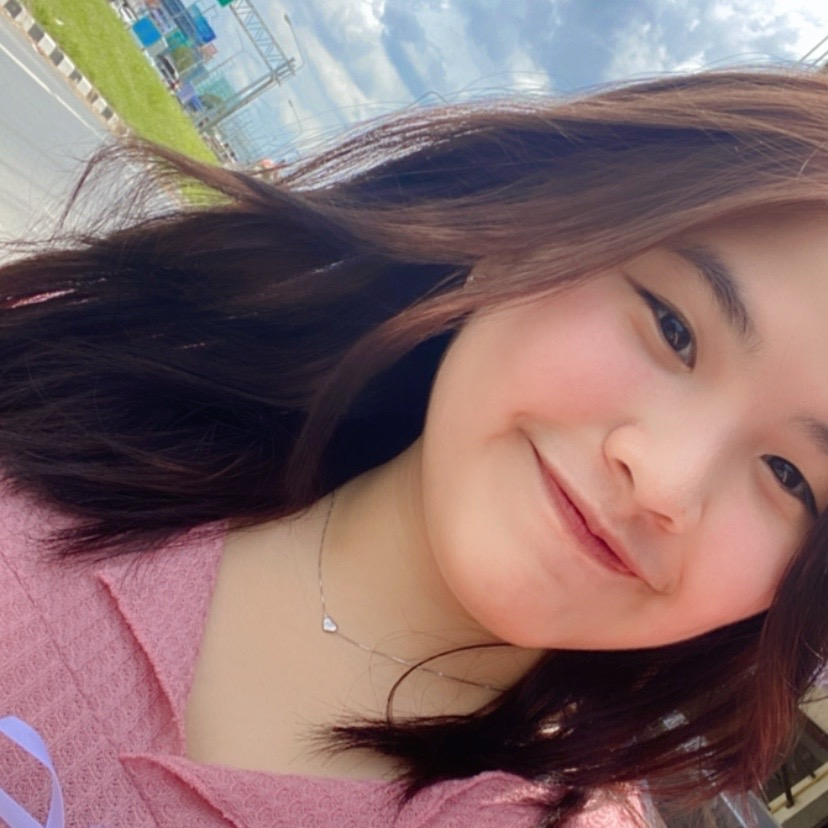
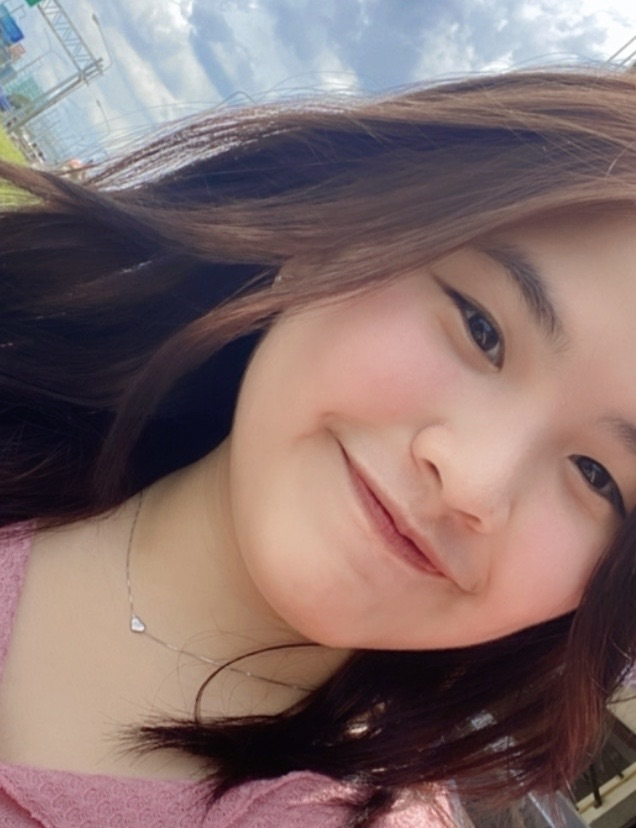
Adjust images size

diff --git a/future.html b/future.html
@@ -39,7 +39,7 @@
             <br>
             🍎I will be good at programming to the point where I can go to work in Japan, get married, have a family, and be happy every day.
         </p>
-        <img src="img_OurFuture/Nuttasorn.JPG" alt="Image 3">
+        <img src="img_OurFuture/Nuttasorn.jpg" alt="Image 3">
     </div>
   
     <div class="highlight">

diff --git a/style.css b/style.css
@@ -26,6 +26,8 @@ h1 {
 }
   
 .highlight img {
-    width: 100%;
+    width: 320px;
+    height: 385px;
+    object-fit: cover;
     margin-top: 20px;
 }
